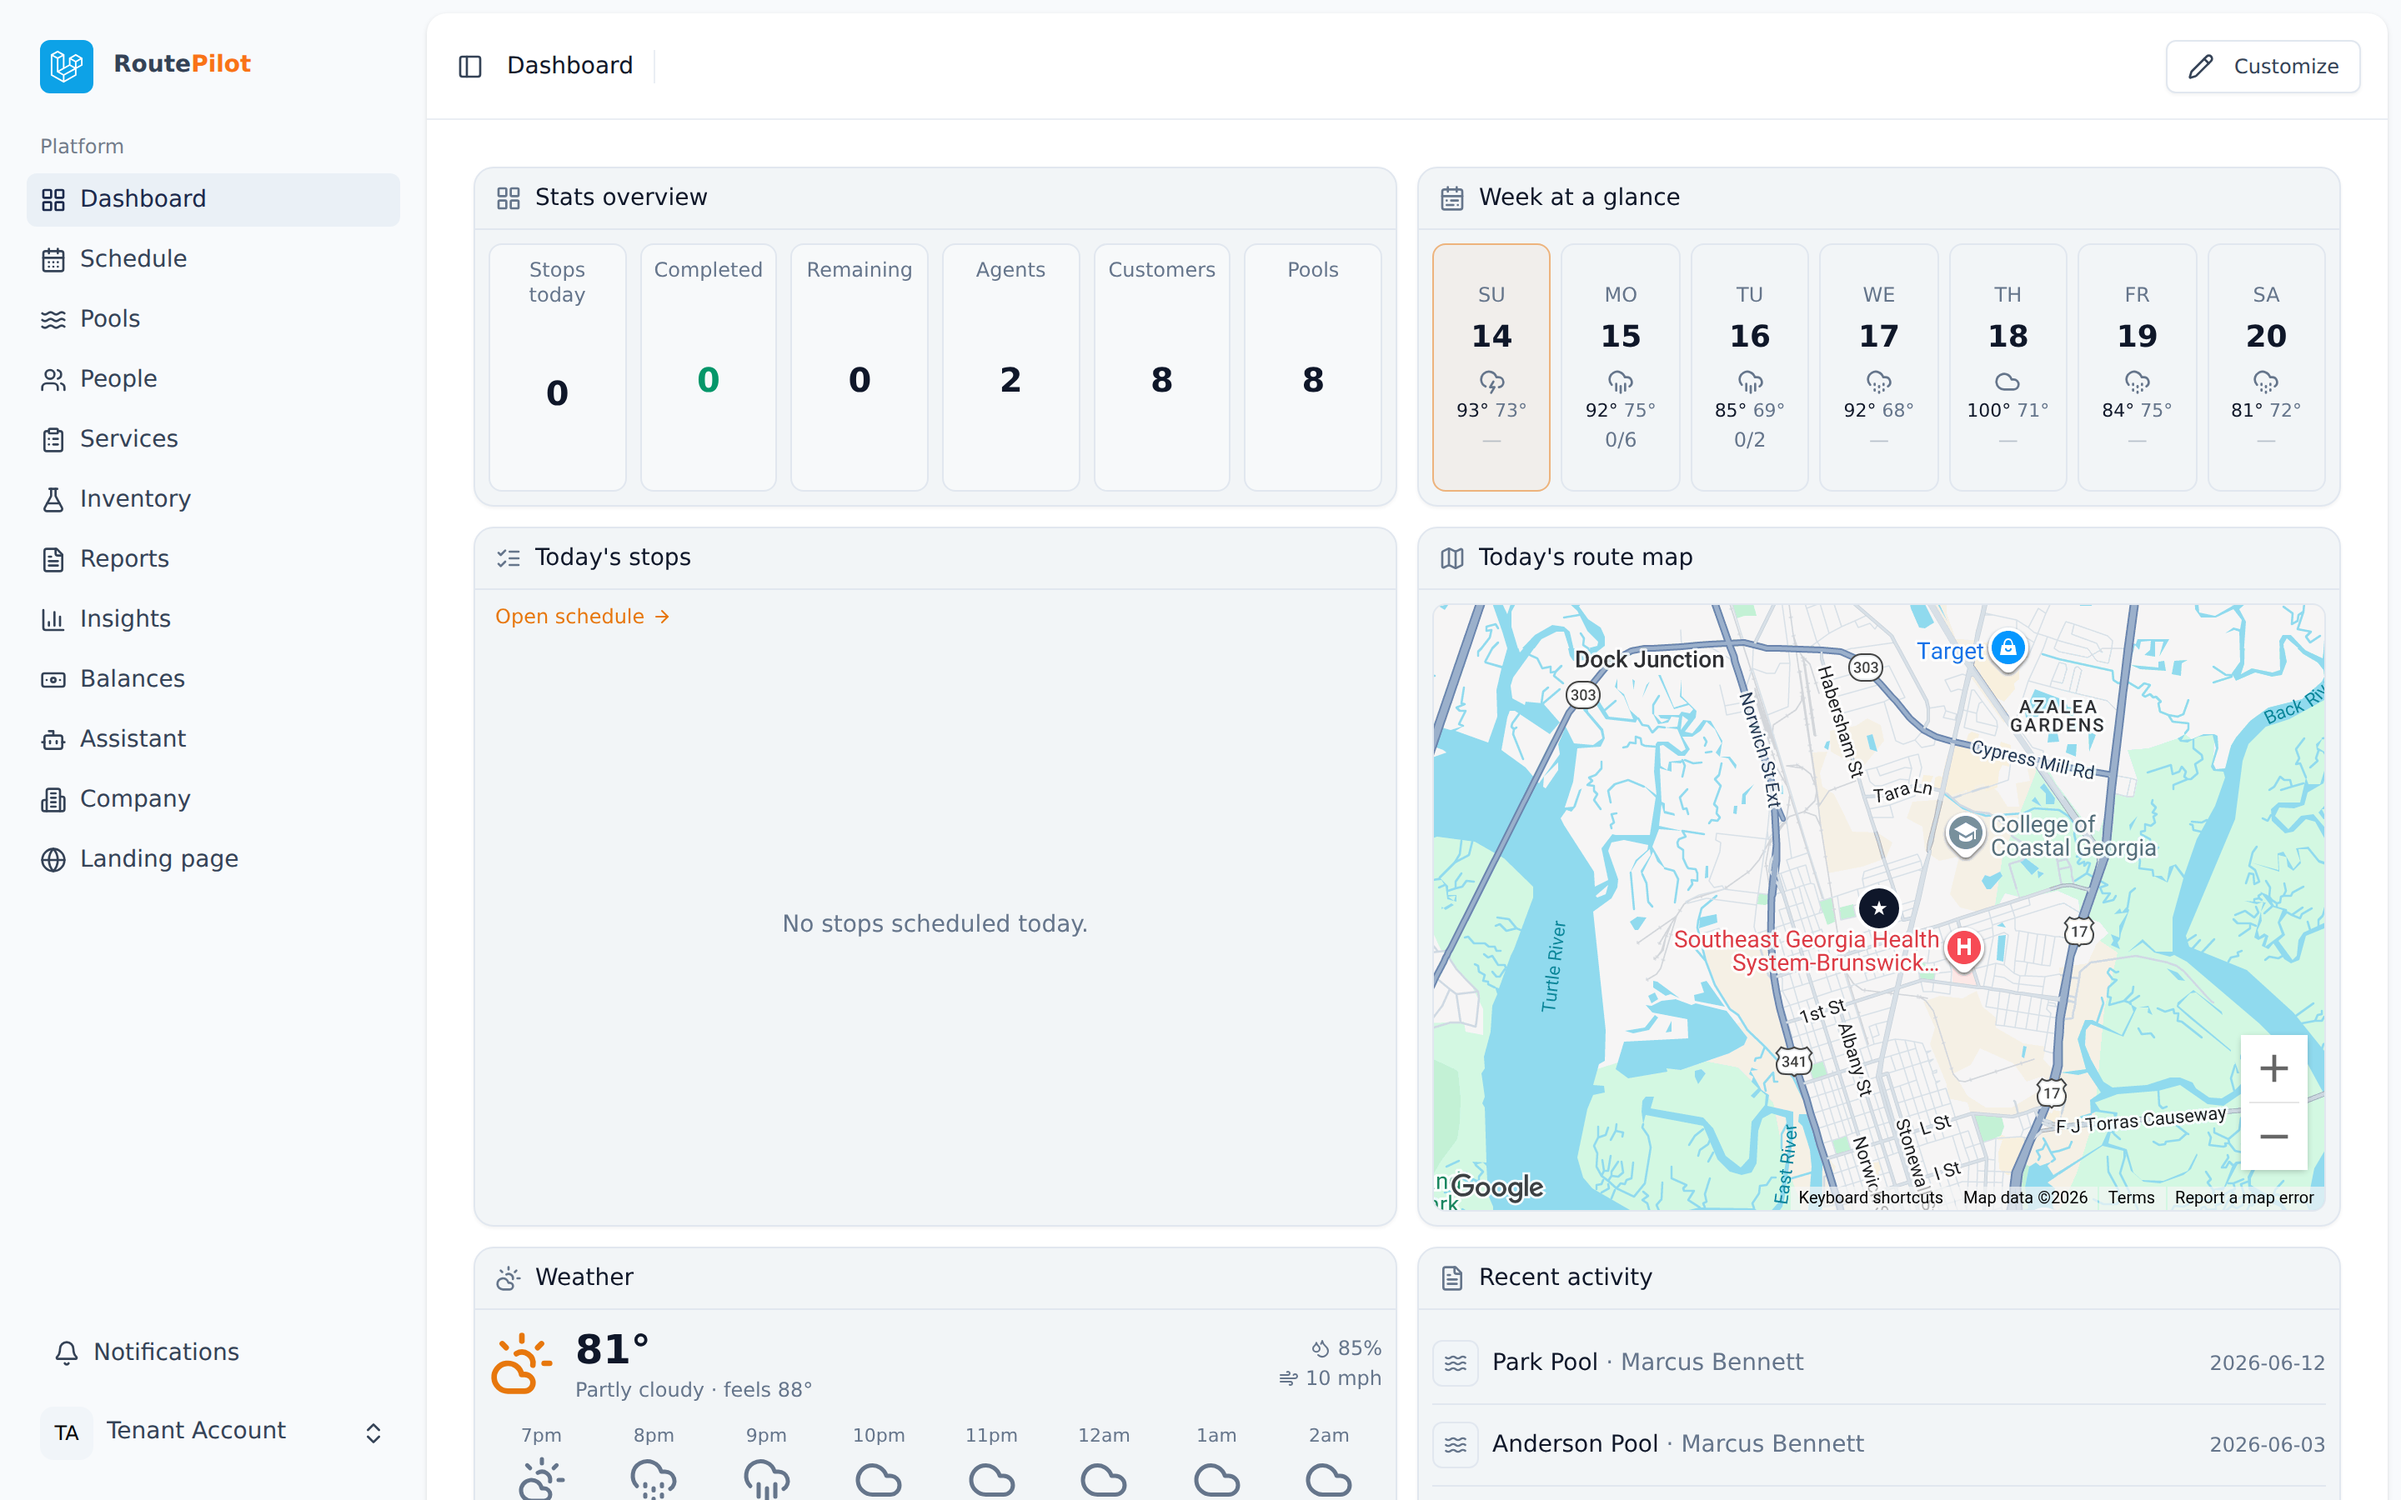
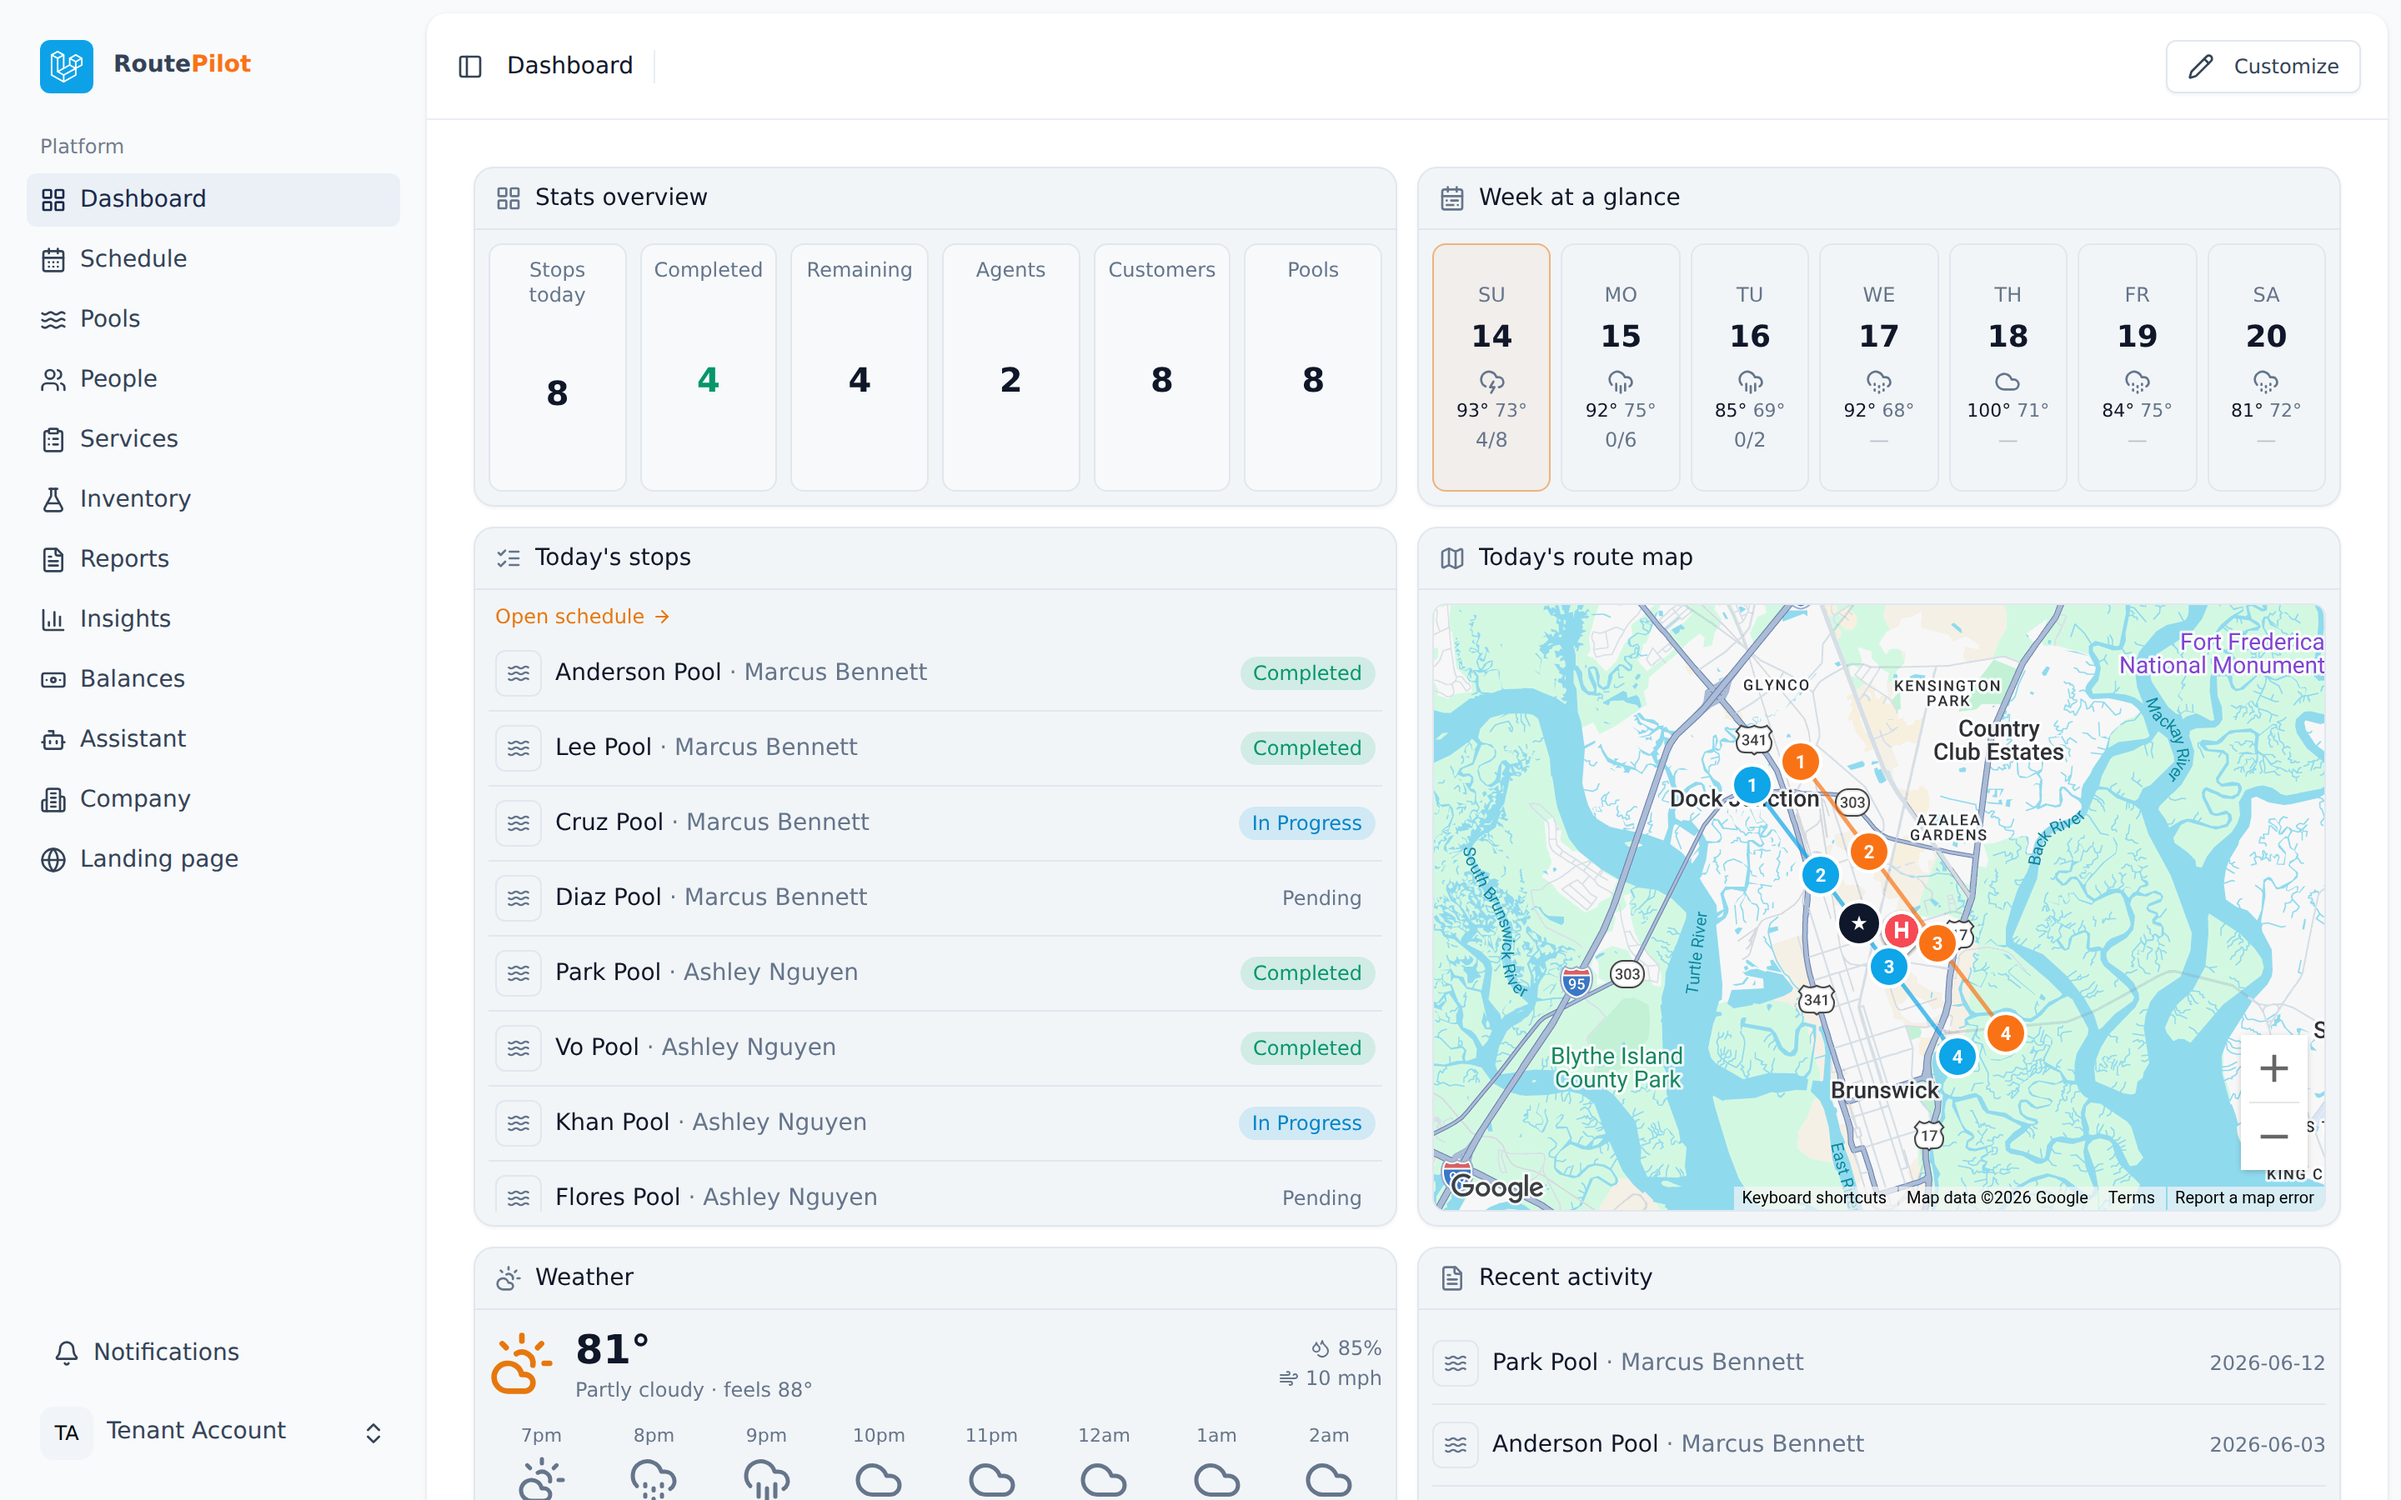
Login showcase: dashboard-first, populated today, phone carousel, dark mode
- Seeded today's stops so the dashboard's route map + today's stops widgets are
  populated, then re-captured. The carousel now leads with the dashboard
  (dashboard -> route map -> reports -> pools).
- The phone is now its own carousel of three mobile views (my day, my route,
  customer portal), 5s slow crossfade.
- Captured light AND dark versions of every screen; the showcase swaps to the
  dark captures when the page is in dark mode (dark: variants).

diff --git a/resources/js/layouts/AuthLayout.vue b/resources/js/layouts/AuthLayout.vue
@@ -8,19 +8,23 @@ defineProps<{
     description?: string;
 }>();
 
-// Carousel of real app screens — 5s each, slow crossfade.
-const shots = [
-    '/assets/images/screenshots/route-map.png',
-    '/assets/images/screenshots/reports.png',
-    '/assets/images/screenshots/dashboard.png',
-    '/assets/images/screenshots/pools.png',
-];
+// Carousels of real app screens — 5s each, slow crossfade. Each frame has a
+// light + dark capture; the dark one shows when the page is in dark mode.
+const shots = ['dashboard', 'route-map', 'reports', 'pools'];
+const phones = ['phone-day', 'phone-route', 'phone-portal'];
 const current = ref(0);
+const phoneCurrent = ref(0);
 let timer: ReturnType<typeof setInterval> | undefined;
 onMounted(() => {
-    timer = setInterval(() => (current.value = (current.value + 1) % shots.length), 5000);
+    timer = setInterval(() => {
+        current.value = (current.value + 1) % shots.length;
+        phoneCurrent.value = (phoneCurrent.value + 1) % phones.length;
+    }, 5000);
 });
 onBeforeUnmount(() => clearInterval(timer));
+
+const light = (name: string) => `/assets/images/screenshots/${name}.png`;
+const dark = (name: string) => `/assets/images/screenshots/dark/${name}.png`;
 </script>
 
 <template>
@@ -49,7 +53,7 @@ onBeforeUnmount(() => clearInterval(timer));
                 <span><span class="text-sky-300">Route</span><span class="text-orange-400">Pilot</span></span>
             </Link>
 
-            <!-- Product showcase: the real app, desktop + mobile -->
+            <!-- Product showcase: the real app, desktop + mobile, light/dark aware -->
             <div class="relative z-10 my-8 flex flex-1 items-center justify-center">
                 <div class="relative mx-auto w-full max-w-2xl">
                     <div class="overflow-hidden rounded-xl border border-white/15 shadow-2xl ring-1 ring-black/40 [rotate:-1.5deg]">
@@ -63,24 +67,49 @@ onBeforeUnmount(() => clearInterval(timer));
                                 <Lock class="size-3 text-emerald-400" /> routepilot.pro
                             </span>
                         </div>
-                        <div class="relative aspect-[16/10] bg-white">
-                            <img
-                                v-for="(s, i) in shots"
-                                :key="s"
-                                :src="s"
-                                alt="RoutePilot app"
-                                loading="lazy"
-                                class="duration-[1200ms] absolute inset-0 size-full object-cover object-top transition-opacity ease-in-out"
-                                :class="i === current ? 'opacity-100' : 'opacity-0'"
-                            />
+                        <div class="relative aspect-[16/10] bg-white dark:bg-slate-900">
+                            <template v-for="(name, i) in shots" :key="name">
+                                <img
+                                    :src="light(name)"
+                                    alt="RoutePilot app"
+                                    loading="lazy"
+                                    class="duration-[1200ms] absolute inset-0 size-full object-cover object-top transition-opacity ease-in-out dark:hidden"
+                                    :class="i === current ? 'opacity-100' : 'opacity-0'"
+                                />
+                                <img
+                                    :src="dark(name)"
+                                    alt="RoutePilot app"
+                                    loading="lazy"
+                                    class="duration-[1200ms] absolute inset-0 hidden size-full object-cover object-top transition-opacity ease-in-out dark:block"
+                                    :class="i === current ? 'opacity-100' : 'opacity-0'"
+                                />
+                            </template>
                         </div>
                     </div>
-                    <img
-                        src="/assets/images/screenshots/agent-mobile.png"
-                        alt="RoutePilot mobile app"
-                        loading="lazy"
-                        class="absolute -bottom-6 right-2 w-24 rounded-[1.4rem] border-4 border-slate-800 shadow-2xl [rotate:4deg] sm:w-28"
-                    />
+
+                    <!-- phone carousel -->
+                    <div
+                        class="absolute -bottom-6 right-2 w-24 overflow-hidden rounded-[1.4rem] border-4 border-slate-800 shadow-2xl [rotate:4deg] sm:w-28"
+                    >
+                        <div class="relative aspect-[390/640] bg-white dark:bg-slate-900">
+                            <template v-for="(name, i) in phones" :key="name">
+                                <img
+                                    :src="light(name)"
+                                    alt="RoutePilot mobile"
+                                    loading="lazy"
+                                    class="duration-[1200ms] absolute inset-0 size-full object-cover object-top transition-opacity ease-in-out dark:hidden"
+                                    :class="i === phoneCurrent ? 'opacity-100' : 'opacity-0'"
+                                />
+                                <img
+                                    :src="dark(name)"
+                                    alt="RoutePilot mobile"
+                                    loading="lazy"
+                                    class="duration-[1200ms] absolute inset-0 hidden size-full object-cover object-top transition-opacity ease-in-out dark:block"
+                                    :class="i === phoneCurrent ? 'opacity-100' : 'opacity-0'"
+                                />
+                            </template>
+                        </div>
+                    </div>
                 </div>
             </div>
 
